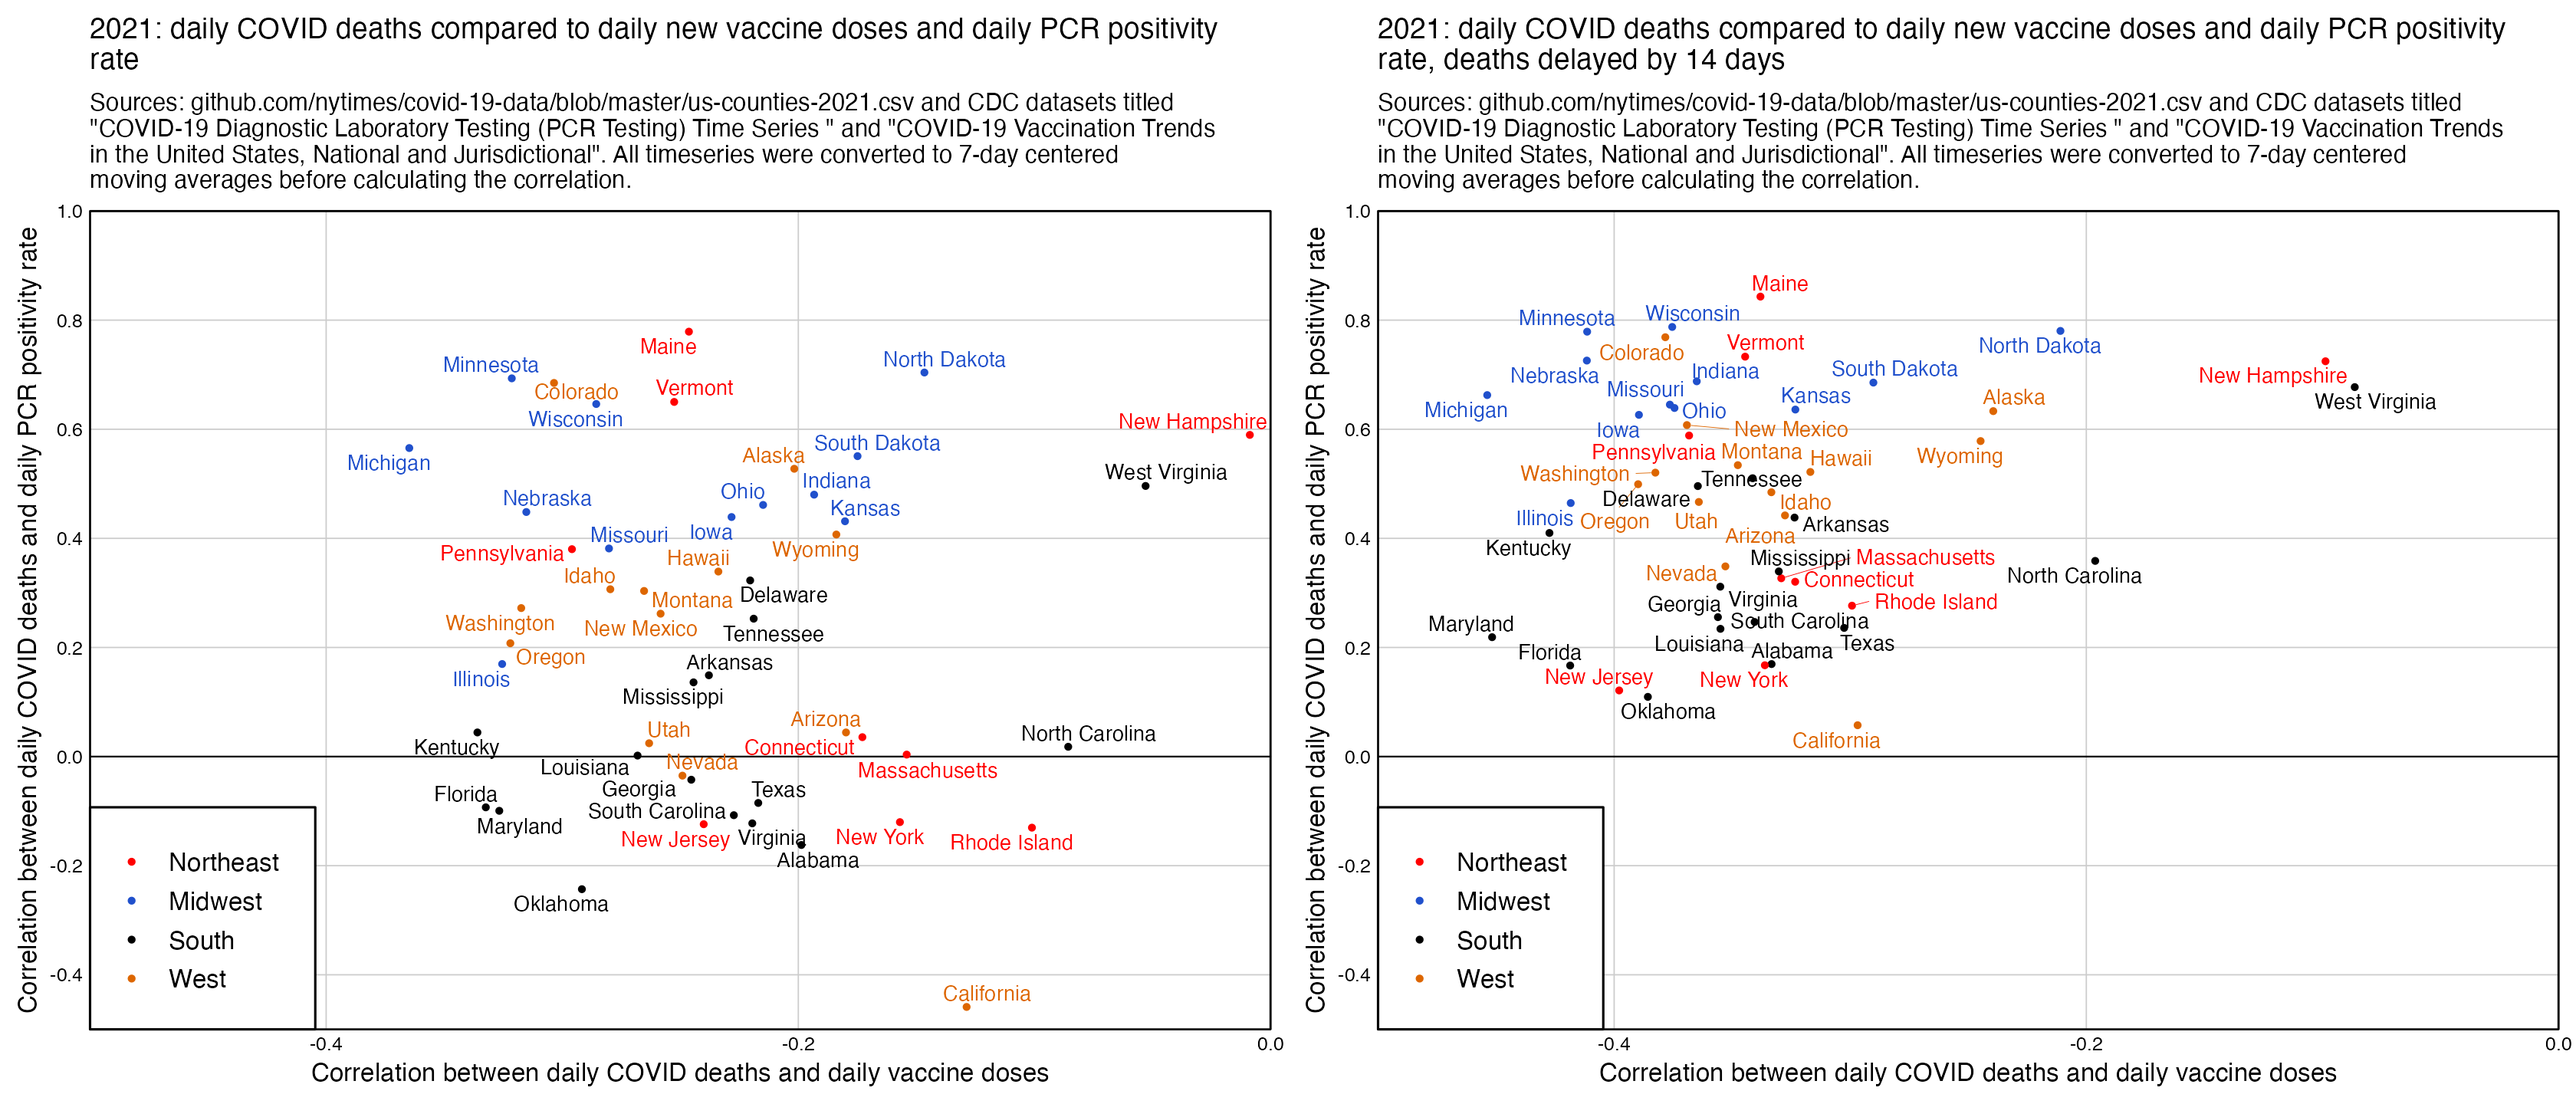
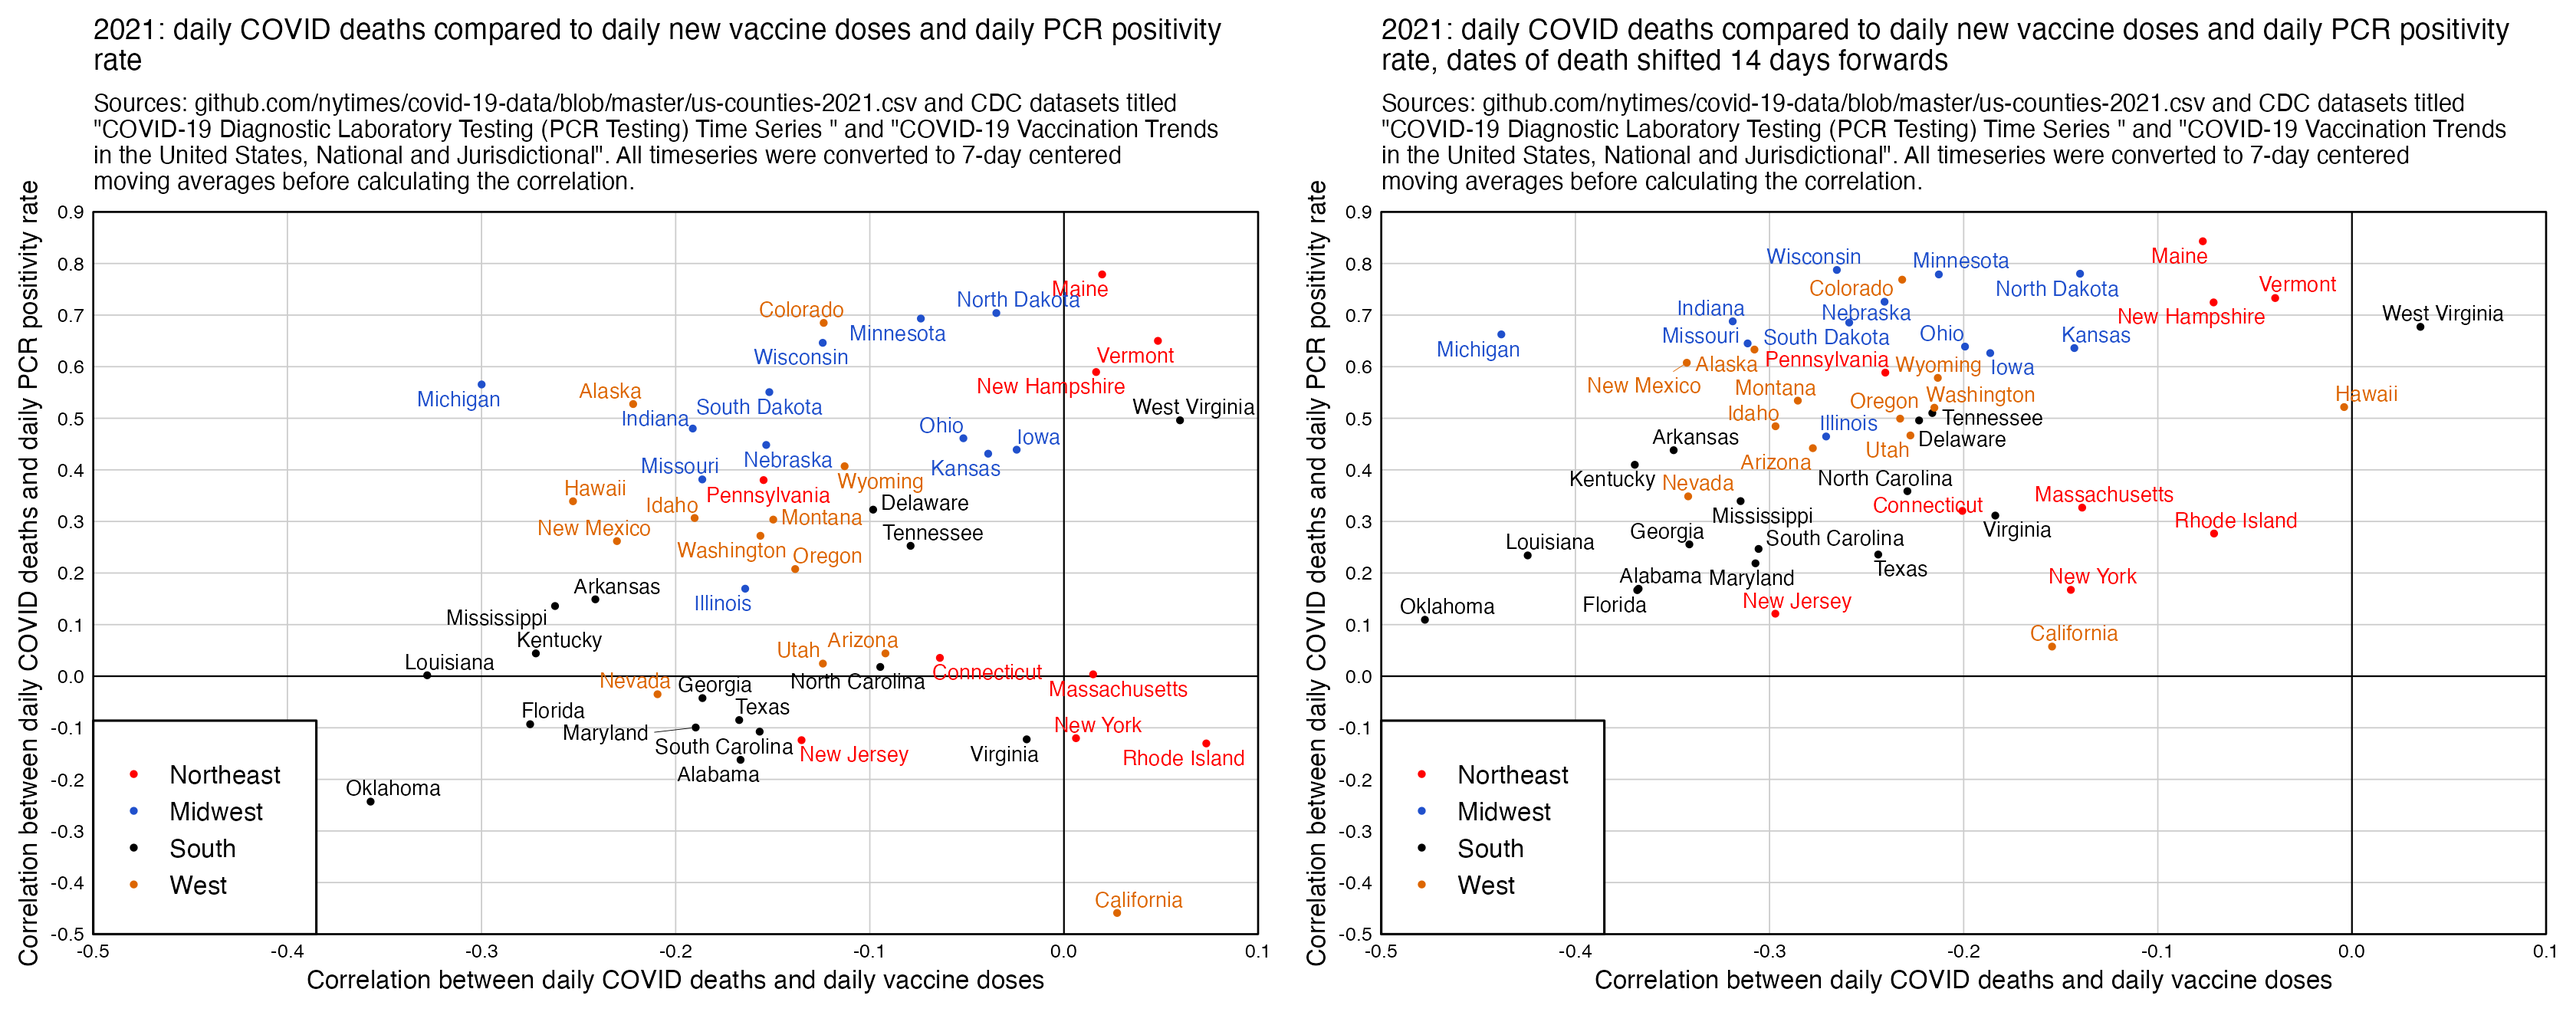
a

diff --git a/debunk.html b/debunk.html
@@ -140,11 +140,11 @@ MI,2020-12-16,2022-11-08,71</pre>
 <h3>
 <a href=#Correlation_of_daily_COVID_deaths_with_daily_vaccine_doses_and_daily_PCR_positivity id=Correlation_of_daily_COVID_deaths_with_daily_vaccine_doses_and_daily_PCR_positivity>Correlation of daily COVID deaths with daily vaccine doses and daily PCR positivity</a>
 </h3>
-<p>When I tried comparing the daily number of COVID deaths in 2021 to daily new vaccine doses given, I got a negative correlation for all states, but most states got a positive correlation between COVID deaths and PCR positivity rate. But when I tried delaying all deaths by 14 days, the correlation with PCR positivity got even higher so that it was now positive in all states, but the correlation with daily vaccine doses got even lower:</p>
+<p>When I tried comparing the daily number of COVID deaths in 2021 to daily new vaccine doses given, I got negative correlation for most states, but most states got a positive correlation between daily COVID deaths and daily PCR positivity rate. But when I tried shifting all deaths forwards by 14 days, the correlation with PCR positivity got even higher so that it was now positive in all states, and the correlation with daily vaccine doses was negative for all states except one state. So if Spieker is right and the vaccines were causing a massive number of COVID deaths with a delay of 1-2 weeks in August 2021, why wasn't it also happening during other months of 2021?</p>
 <div class="width14">
 <img src="i/debunk-kirsch-aug2021-6.png">
 </div>
-<pre>library(ggplot2)
+<pre>r1library(ggplot2)
 
 download.file(&quot;https://data.cdc.gov/api/views/rh2h-3yt2/rows.csv?accessType=DOWNLOAD&quot;,&quot;statesvax.csv&quot;)
 download.file(&quot;https://healthdata.gov/api/views/j8mb-icvb/rows.csv&quot;,&quot;statespcr.csv&quot;)
@@ -152,7 +152,7 @@ download.file(&quot;https://raw.githubusercontent.com/nytimes/covid-19-data/mast
 
 vax=read.csv(&quot;statesvax.csv&quot;)|&gt;subset(date_type==&quot;Report&quot;)
 vax[,1]=as.Date(vax[,1],&quot;%m/%d/%Y&quot;)
-vax=vax[,c(&quot;Date&quot;,&quot;Location&quot;,&quot;Admin_Dose_1_Daily&quot;)]
+vax=vax[,c(&quot;Date&quot;,&quot;Location&quot;,&quot;Administered_Daily&quot;)]
 colnames(vax)=c(&quot;date&quot;,&quot;state&quot;,&quot;vax&quot;)
 
 pcr=read.csv(&quot;statespcr.csv&quot;)
@@ -163,7 +163,7 @@ pcr=data.frame(as.Date(pcr[,1],&quot;%Y/%m/%d&quot;),pcr[,2],pcr=pcr[,3]/(pcr[,3
 
 cov=data.table::fread(&quot;us-counties-2021.csv&quot;)[,.(dead=sum(deaths)),by=.(as.Date(date),state.abb[match(state,state.name)])]
 
-# cov[,1]=cov[,1]+14 # shift all deaths by 14 days
+cov[,1]=cov[,1]+14
 
 me=merge(vax,pcr,by=1:2)|&gt;merge(cov,by=1:2)
 
@@ -180,7 +180,7 @@ xy$region=factor(xy$region,region[,1])
 
 color=c(&quot;red&quot;,&quot;#2050cc&quot;,&quot;black&quot;,&quot;#dd6600&quot;)
 
-ystart=-.5;yend=1;xstart=-.5;xend=0;xstep=ystep=.25
+xstart=-.5;xend=.1;ystart=-.5;yend=.9;xstep=ystep=.1
 
 xtit=paste0(&quot;Correlation between daily COVID deaths and daily vaccine doses&quot;)
 ytit=paste0(&quot;Correlation between daily COVID deaths and daily PCR positivity rate&quot;)
@@ -192,14 +192,14 @@ geom_point(size=.5)+
 ggrepel::geom_text_repel(label=state.name[match(rownames(xy),state.abb)],size=2.3,max.overlaps=Inf,segment.size=.1,min.segment.length=.2,box.padding=.07,show.legend=F)+
 scale_x_continuous(limits=c(xstart,xend),breaks=seq(xstart,xend,xstep))+
 scale_y_continuous(limits=c(ystart,yend),breaks=seq(ystart,yend,ystep))+
-labs(x=xtit,y=ytit,title=&quot;2021: daily COVID deaths compared to daily new vaccine doses and daily PCR positivity\nrate&quot;,subtitle=&quot;Sources: github.com/nytimes/covid-19-data/blob/master/us-counties-2021.csv and CDC datasets titled \&quot;COVID-19 Diagnostic Laboratory Testing (PCR Testing) Time Series
+labs(x=xtit,y=ytit,title=&quot;2021: daily COVID deaths compared to daily new vaccine doses and daily PCR positivity\nrate, dates of death shifted 14 days forwards&quot;,subtitle=&quot;Sources: github.com/nytimes/covid-19-data/blob/master/us-counties-2021.csv and CDC datasets titled \&quot;COVID-19 Diagnostic Laboratory Testing (PCR Testing) Time Series
 \&quot; and \&quot;COVID-19 Vaccination Trends in the United States, National and Jurisdictional\&quot;. All timeseries were converted to 7-day centered moving averages before calculating the correlation.&quot;|&gt;stringr::str_wrap(100))+
 coord_cartesian(clip=&quot;off&quot;,expand=F)+
 scale_fill_manual(values=color)+
 scale_color_manual(values=color)+
 theme(axis.text=element_text(size=6,color=&quot;black&quot;),
   axis.ticks=element_blank(),
-  axis.ticks.length=unit(0,&quot;lines&quot;),
+  axis.ticks.length=unit(.05,&quot;lines&quot;),
   axis.title=element_text(size=8),
   legend.background=element_blank(),
   legend.box.just=&quot;center&quot;,
